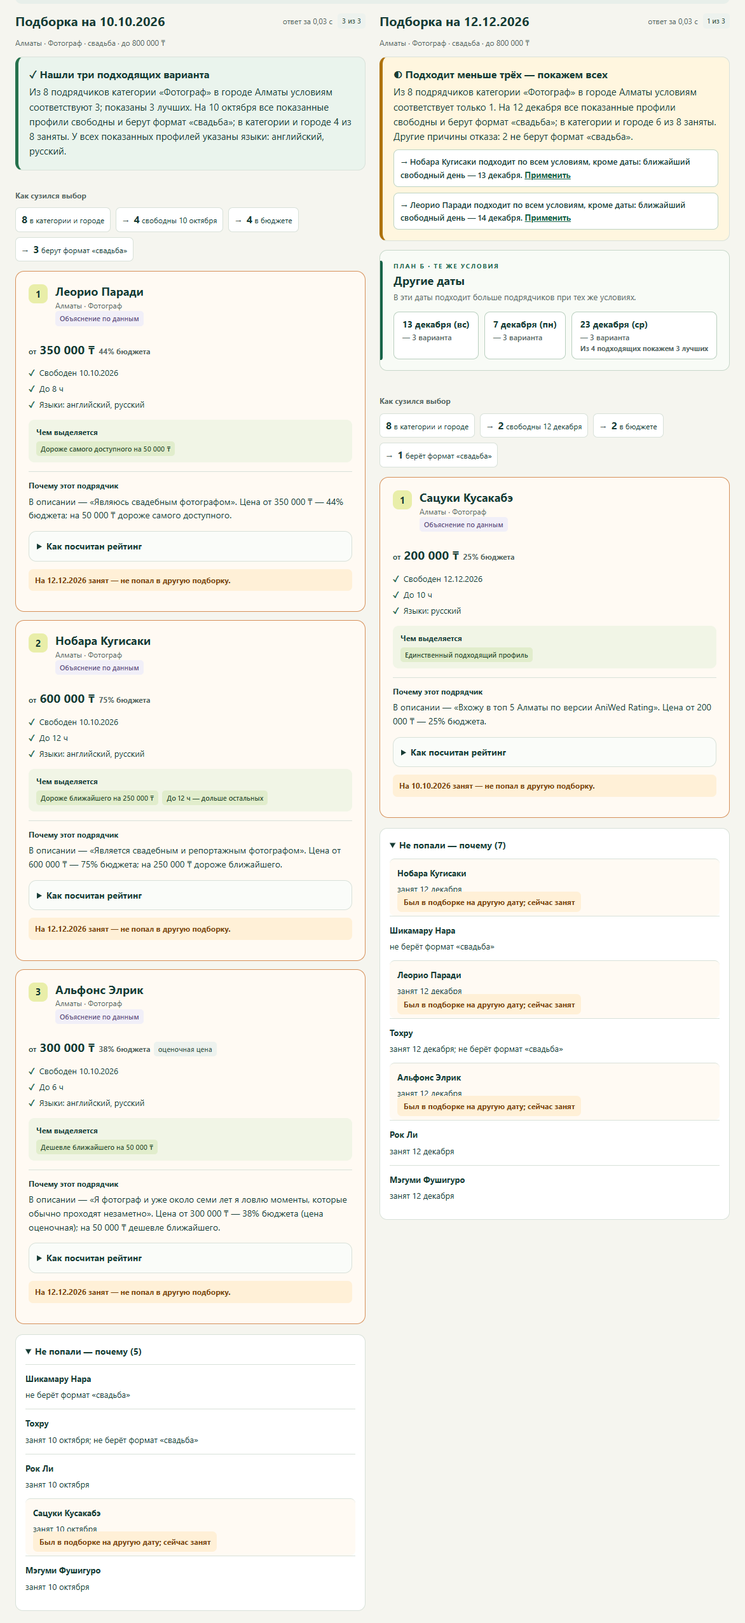
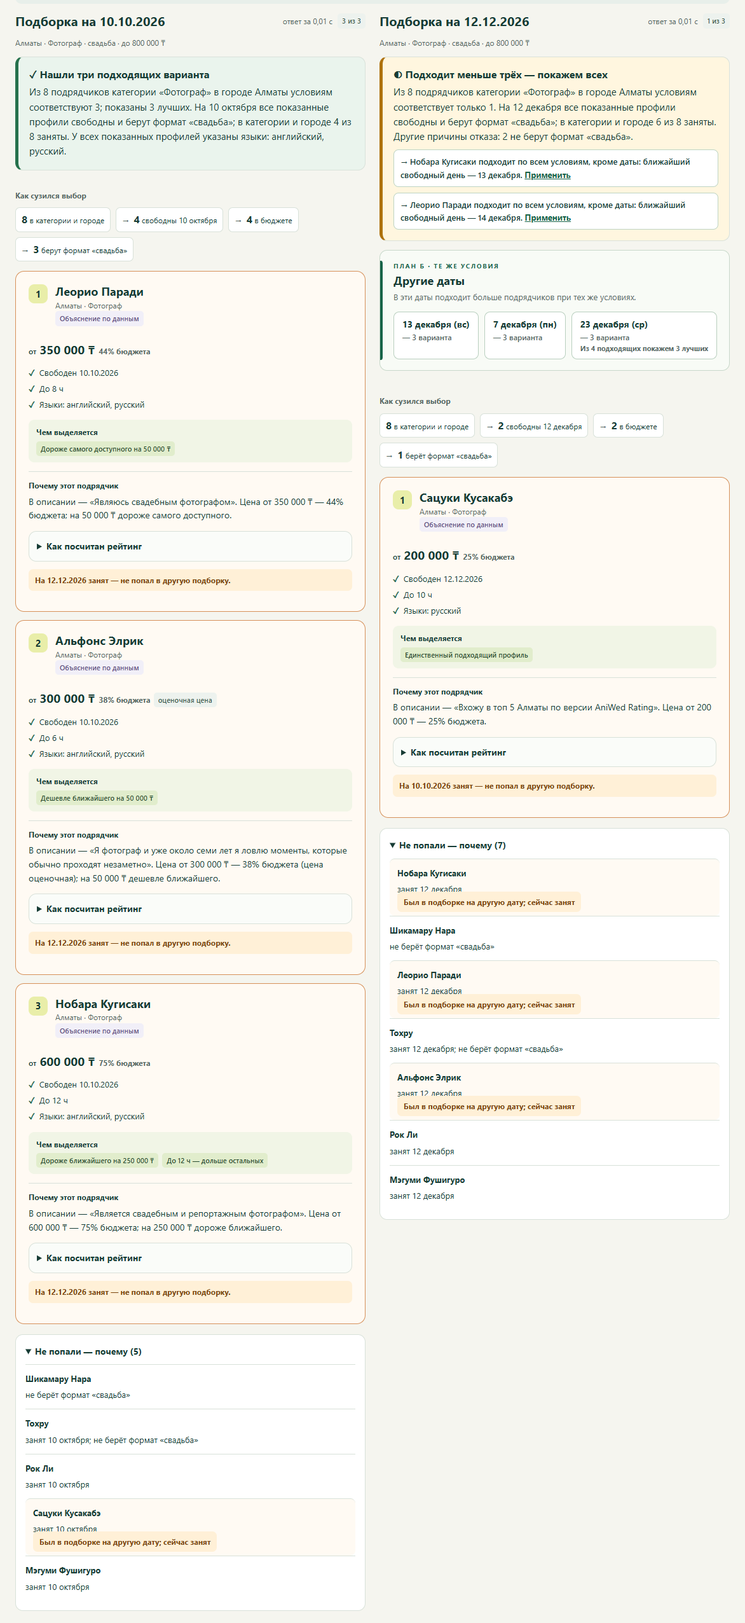
Документация под эмбеддинги: смысловая релевантность в README, новый порядок фотографов, DEMO, demo-results и скриншоты

Changed region(s): [[0.0307, 0.4643, 0.4915, 0.7739], [0.0922, 0.3715, 0.1843, 0.4024]]

diff --git a/README.md b/README.md
@@ -87,9 +87,9 @@ python3 -m venv .venv
 
 | # | Что сделать | Что вы увидите |
 | :-: | --- | --- |
-| 1 | Нажать **«Фотографы в Алматы»** | Исход «Нашли три подходящих варианта». Три карточки с одинаковыми фактами (цена и % бюджета, свободен, часы, языки), своей строкой «Чем выделяется» и своим объяснением. Раскрывающийся блок «Как посчитан рейтинг» с оценками факторов и весами. Время ответа — сотые доли секунды. Метка «Объяснение по данным» |
+| 1 | Нажать **«Фотографы в Алматы»** | Исход «Нашли три подходящих варианта»: Леорио Паради, Альфонс Элрик, Нобара Кугисаки. Три карточки с одинаковыми фактами (цена и % бюджета, свободен, часы, языки), своей строкой «Чем выделяется» и своим объяснением. Раскрывающийся блок «Как посчитан рейтинг» с оценками факторов и весами. Время ответа — сотые доли секунды. Метка «Объяснение по данным» |
 | 2 | Нажать **«Редкая категория»**, затем **«Нет в городе»** | Флористы: один вариант и объяснение, почему меньше трёх. Лайв-бэнд в Астане: «В этом городе нет такой категории» |
-| 3 | Нажать **«Сравнить даты»** | Подборки на 10 октября и 12 декабря рядом. Октябрьская тройка отмечена «занят 12 декабря»; под декабрьской — «Другие даты»: 13 декабря (вс) и 7 декабря (пн), по 3 варианта |
+| 3 | Нажать **«Сравнить даты»** | Подборки на 10 октября и 12 декабря рядом. 12 декабря подходит только Сацуки Кусакабэ, октябрьская тройка отмечена «занят 12 декабря»; под декабрьской — «Другие даты»: 13 декабря (вс) и 7 декабря (пн), по 3 варианта |
 | 4 | Вставить фразу ниже в поле «Опишите мероприятие своими словами» → **«Разобрать»** → **«Подобрать подрядчиков»** | Форма заполнена, у каждого поля — фрагмент текста; совет выбрать язык «казахский» или формат «той». Подбор сам не запускается. После нажатия — один вариант: Мицури Канроджи |
 | 5 | Под результатом нажать **«Применить»** у подсказки | Дата или бюджет подставлены, подбор повторён |
 
@@ -166,10 +166,13 @@ flowchart TD
   H --> I[Ответ API → интерфейс]
 ```
 
+**Смысловая релевантность:** эмбеддинги OpenAI `text-embedding-3-small` для каждого предложения описаний посчитаны заранее (`scripts/build_embeddings.py`) и лежат в `data/embeddings.json` — подбор работает без сети и ключа; ключ нужен только чтобы пересчитать их.
+
 | Модуль | Что делает |
 | --- | --- |
 | `app/matcher.py` | Жёсткие фильтры, рейтинг, сравнительные объяснения, воронка, подсказки. Хранит **все** причины отказа по каждому кандидату |
 | `app/alternatives.py` | «План Б»: для дат ±14 дней прогоняет те же фильтры и рейтинг и предлагает ближайшие даты с большей подборкой |
+| `app/semantic.py` | Смысловая близость предложений описания к формату по заранее посчитанным эмбеддингам из `data/embeddings.json`; без сети |
 | `app/nl_parse.py` | Разбор фразы по правилам, без сети: у каждого поля — исходный фрагмент; отрицания, диапазоны, синонимы |
 | `app/explain_llm.py` | Необязательная редактура объяснений моделью с проверкой фактов, кэшем и откатом на объяснения по данным |
 | `app/data.py` | Загрузка CSV; необязательный `data/synthetic-extra.csv` для профилей команды (`synthetic=true`) |
@@ -185,7 +188,7 @@ flowchart TD
 | Фактор | Вес | Что означает |
 | --- | :-: | --- |
 | `budget` | 0.40 | Запас бюджета относительно цены «от» |
-| `relevance` | 0.30 | Маркеры формата в описании и узкая специализация |
+| `relevance` | 0.30 | Смысловая близость описания к формату: косинус лучшего предложения описания к описанию формата (`score_parts.semantic`) |
 | `hours` | 0.15 | Запас по длительности на площадке |
 | `language` | 0.10 | Совпадение языка или разнообразие языков |
 | `data_quality` | 0.05 | Ниже, если цена или город восстановлены |
@@ -235,8 +238,9 @@ flowchart TD
   выдуманные числа, цитаты и общие фразы, при отказе остаются объяснения по данным.
 - **Вес бюджета 0.40:** цена в каталоге указана «от», поэтому запас бюджета снижает риск выйти за него.
   Все веса видны в карточке — «Как посчитан рейтинг».
-- **Смысл описания** учитывается через маркеры формата в описании (фактор «описание и формат», 30%) и дословные цитаты
-  в объяснениях. Семантический поиск по эмбеддингам — следующий шаг, см. [развитие](#масштабирование-и-развитие).
+- **Смысл описания** учитывается через эмбеддинги: фактор «описание и формат» (30%) — это смысловая близость предложений
+  описания к формату, посчитанная заранее, поэтому ранжирование остаётся детерминированным и работает без сети.
+  Объяснение цитирует самое близкое предложение дословно.
 
 ## Что сделано иначе
 
@@ -250,6 +254,7 @@ flowchart TD
 | **«План Б»** и подсказки с кнопкой «Применить» — следующий шаг в один клик | `test_offered_date_really_gives_that_selection_in_main_match` |
 | **Фраза → форма**: у каждого поля фрагмент текста; подбор запускает пользователь, а не догадка парсера | `test_every_found_field_has_source_fragment` |
 | **LLM не влияет на отбор**: только редактирует текст, ответ проверяется на выдуманные факты, есть кэш и откат | `test_match_marks_llm_source_without_changing_order` |
+| **Смысловая релевантность без сети**: эмбеддинги описаний посчитаны заранее, во время подбора — только косинус; порядок детерминирован и без ключа | `test_semantic_order_is_deterministic_without_key_or_network` |
 | **Аудит на всей сетке запросов**, а не на трёх примерах: 7290 запросов, 0 нарушений | `scripts/audit_explanations.py --strict` |
 
 ## Используемые технологии
@@ -259,13 +264,14 @@ flowchart TD
 | Backend | Python 3.10+, FastAPI, Pydantic, Uvicorn |
 | Интерфейс | HTML, CSS и JavaScript без фреймворков и сборщика |
 | AI (необязательно) | OpenAI Python SDK — OpenAI или NVIDIA API Catalog через OpenAI-совместимый endpoint |
+| Смысловая релевантность | OpenAI `text-embedding-3-small`, посчитанные заранее и сохранённые в `data/embeddings.json`; во время работы — только косинус, без сети |
 | Данные | CSV каталога организаторов, ответы API в JSON |
 | Проверки | pytest, httpx, HTTP-сценарии `scripts/demo.py`, аудит `scripts/audit_explanations.py` |
 
 ## Зависимости
 
 Все зависимости — в `requirements.txt` (с верхними границами версий): `fastapi`, `uvicorn` — сервис; `openai` —
-необязательный LLM-слой, импортируется только при обращении к модели; `python-dotenv` — чтение `.env` через
+необязательный LLM-слой и пересчёт эмбеддингов (`scripts/build_embeddings.py`), при подборе не используется; `python-dotenv` — чтение `.env` через
 `--env-file`; `pytest`, `httpx` — тесты. Интернет нужен только для установки и для LLM-слоя.
 
 ## Переменные окружения
@@ -275,7 +281,7 @@ flowchart TD
 | Переменная | По умолчанию | Назначение |
 | --- | --- | --- |
 | `LLM_PROVIDER` | `openai` | `openai` или `nvidia`; другое значение — только объяснения по данным |
-| `OPENAI_API_KEY` | пусто | Ключ OpenAI (platform.openai.com → API keys) |
+| `OPENAI_API_KEY` | пусто | Ключ OpenAI (platform.openai.com → API keys) — для редактуры объяснений и пересчёта эмбеддингов `scripts/build_embeddings.py` |
 | `OPENAI_MODEL` | `gpt-4o-mini` | Модель с `temperature=0` и Structured Outputs |
 | `NVIDIA_API_KEY` | пусто | Ключ NVIDIA API Catalog (build.nvidia.com), при `LLM_PROVIDER=nvidia` |
 | `NVIDIA_MODEL` | пусто (в `.env.example` — `meta/llama-3.3-70b-instruct`) | Модель через `https://integrate.api.nvidia.com/v1` |
@@ -361,7 +367,8 @@ cp .env.example .env
 - **Живые календари** — синхронизация занятости с подрядчиками вместо CSV; фильтры, рейтинг и «План Б» уже работают с датами.
 - **Больше городов и категорий** — города и категории берутся из данных (`/api/meta`); при росте каталога — база данных
   с индексом по городу, категории и дате.
-- **Семантический поиск** — эмбеддинги описаний, чтобы находить подрядчиков по смыслу («камерная свадьба на природе»).
+- **Поиск по смыслу запроса** — эмбеддинги описаний уже есть; следующий шаг — сравнивать с ними свободный текст заказчика
+  («камерная свадьба на природе»), а не только формат мероприятия.
 - **Обратная связь** — отметки «подошло / не подошло» для настройки весов рейтинга на реальных выборах.
 - **Встраивание** — API без состояния: подбор можно встроить виджетом на сайт агрегатора или площадки.
 - **Казахский интерфейс** — разбор текста уже понимает казахские формулировки («той»).

diff --git a/docs/DEMO.md b/docs/DEMO.md
@@ -1,9 +1,9 @@
 # Демо: от заявки до объяснимой подборки
 
-Сценарии проверены **23 сентября 2026 в 15:30** через настоящий HTTP API backend из
-`origin/main` (`d38ee7b`), установленного с нуля по README. В этом прогоне ключ
+Сценарии проверены **23 сентября 2026 в 16:00** через настоящий HTTP API backend из
+`origin/main` (`b9473f5`, со смысловой релевантностью на эмбеддингах), установленного с нуля по README. В этом прогоне ключ
 LLM-провайдера не задан: объяснения воспроизводимы, у карточек `explanation_source: "template"`.
-Тесты: `pytest` — **98 passed**; аудит `scripts/audit_explanations.py` — 7290 запросов,
+Тесты: `pytest` — **102 passed**; аудит `scripts/audit_explanations.py` — 7290 запросов,
 **нарушений не найдено**. `GET /api/meta`
 вернул **66 профилей**, из них **13 синтетических**; календарь доступности
 покрывает 23 сентября — 31 декабря 2026 года.
@@ -45,7 +45,7 @@ backend, выполните `.\.venv\Scripts\python.exe scripts/demo.py --save d
 
 | Сценарий | Изменение к общему запросу | Исход | Карточки по порядку | Воронка |
 | --- | --- | --- | --- | --- |
-| `dense`: три фотографа | — | `found` | HK-30583 Леорио; HK-16628 Нобара; HK-53108 Альфонс | 8 → 4 → 4 → 3 |
+| `dense`: три фотографа | — | `found` | HK-30583 Леорио; HK-53108 Альфонс; HK-16628 Нобара | 8 → 4 → 4 → 3 |
 | `rare`: флористы | `category: Флорист` | `partial` | HK-39372 Тони Тони Чоппер | 2 → 1 → 1 → 1 |
 | `no-category`: нет категории в городе | `city: Астана`, `category: Лайв-бэнд` | `no_category_in_city` | Нет | 0 → 0 → 0 → 0 |
 | `none`: слишком низкий бюджет | `budget: 1` | `none_match` | Нет | 8 → 4 → 0 → 0 |
@@ -63,13 +63,17 @@ backend, выполните `.\.venv\Scripts\python.exe scripts/demo.py --save d
 
 1. **Плотная категория** (кнопка «Фотографы в Алматы»). При бюджете 800 000 ₸ у трёх
    фотографов разные объяснения — каждое опирается на цитату из описания и сравнение цены
-   внутри подборки:
+   внутри подборки. Порядок — по рейтингу, где фактор «описание и формат» равен смысловой близости
+   описания к формату «свадьба» (`score_parts.semantic`: 0.35, 0.214, 0.313):
    - Леорио Паради: «В описании — „Являюсь свадебным фотографом“. Цена от 350 000 ₸ — 44% бюджета;
      на 50 000 ₸ дороже самого доступного.»
-   - Нобара Кугисаки: «В описании — „Является свадебным и репортажным фотографом“. Цена от 600 000 ₸ —
-     75% бюджета; на 250 000 ₸ дороже ближайшего.»
    - Альфонс Элрик: «В описании — „Я фотограф и уже около семи лет я ловлю моменты…“. Цена от 300 000 ₸ —
      38% бюджета (цена оценочная); на 50 000 ₸ дешевле ближайшего.»
+   - Нобара Кугисаки: «В описании — „Является свадебным и репортажным фотографом“. Цена от 600 000 ₸ —
+     75% бюджета; на 250 000 ₸ дороже ближайшего.»
+
+   Нобара — третья: её описание ближе к свадьбе, чем у Альфонса (0.313 против 0.214), но цена занимает
+   75% бюджета против 38%, а запас бюджета весит 40%.
 
    Поле `highlights` даёт короткие отличия для карточки («Дороже самого доступного на 50 000 ₸», «До 12 ч — дольше остальных»),
    а `score_parts` — оценки факторов до взвешивания (в интерфейсе — «Как посчитан рейтинг»).
@@ -135,8 +139,8 @@ backend, выполните `.\.venv\Scripts\python.exe scripts/demo.py --save d
 
 Поскольку обязательных полей хватает, `/api/ask` сразу выполнил подбор:
 `partial`, одна карточка — **Мицури Канроджи (HK-44923)**, от 650 000 ₸
-(81% бюджета), до 8 ч при запросе на 6 ч. В объяснении также подтверждены
-свободная дата и формат свадьбы. Воронка **10 → 5 свободны → 2 в бюджете →
+(81% бюджета), до 8 ч при запросе на 6 ч. Объяснение цитирует самый близкий к свадьбе фрагмент
+описания: «• Разработанный ТОЛЬКО для Вас сценарий • Импровизация». Воронка **10 → 5 свободны → 2 в бюджете →
 1 по формату → 1 по длительности**. Девять остальных профилей перечислены в
 `excluded` с причинами; подсказка предлагает бюджет от 900 000 ₸ для Эмилии.
 
@@ -152,7 +156,7 @@ backend, выполните `.\.venv\Scripts\python.exe scripts/demo.py --save d
 | --- | --- | --- | --- |
 | 13 декабря | вс | 3 | Рок Ли, Мэгуми Фушигуро, Нобара Кугисаки |
 | 7 декабря | пн | 3 | Сацуки Кусакабэ, Леорио Паради, Нобара Кугисаки |
-| 23 декабря | ср | 4 | Рок Ли, Мэгуми Фушигуро, Нобара Кугисаки |
+| 23 декабря | ср | 4 | Рок Ли, Мэгуми Фушигуро, Альфонс Элрик |
 
 Для каждой даты в пределах ±14 дней выполняются те же фильтры и рейтинг, что в `/api/match`;
 ближайшие даты с полной подборкой идут первыми. Если дело не в дате (например, бюджет 1 ₸),
